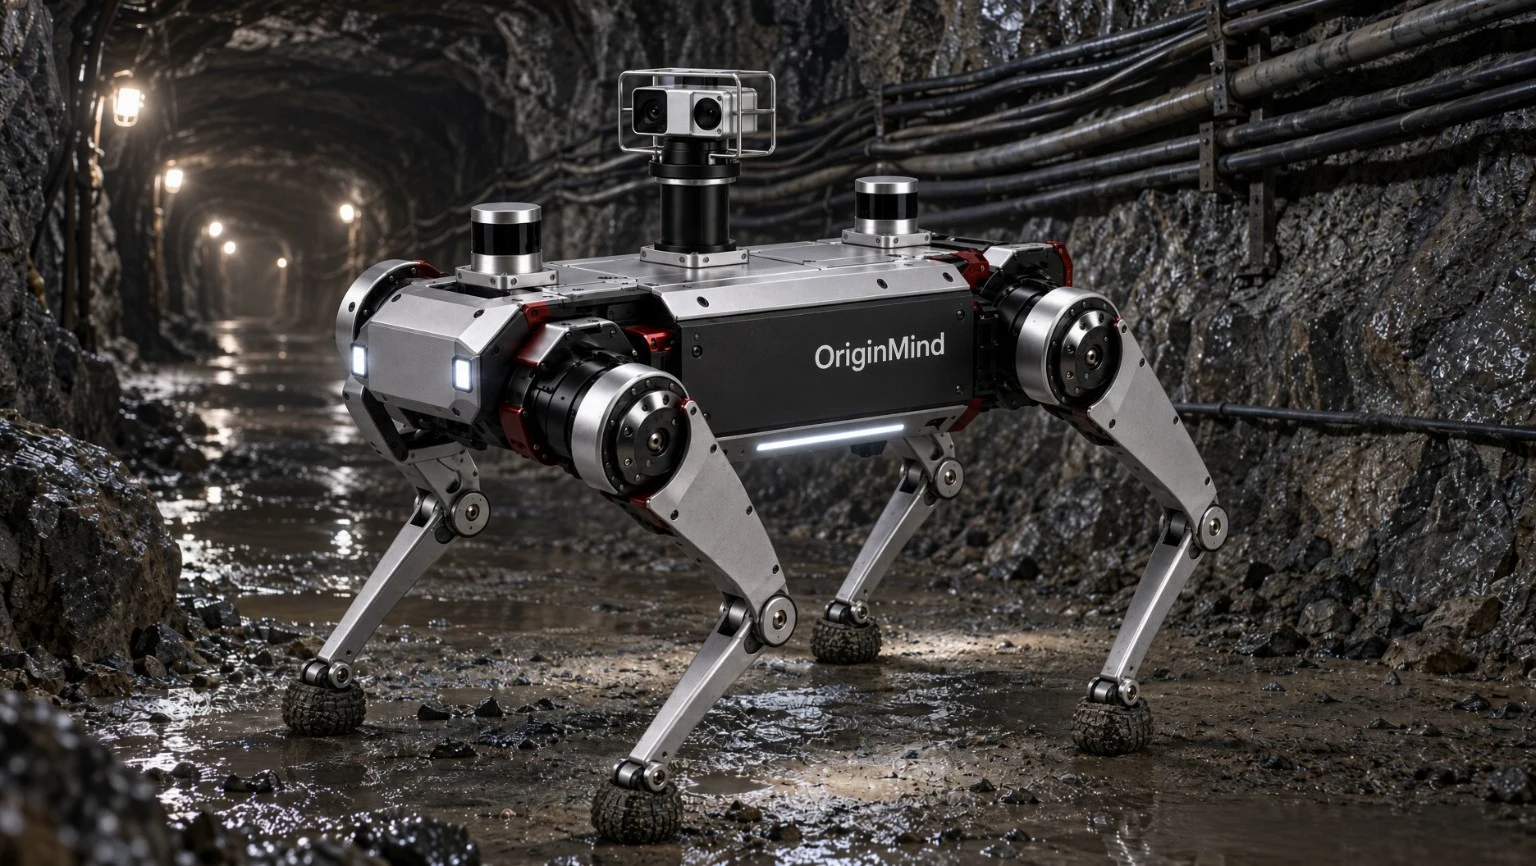
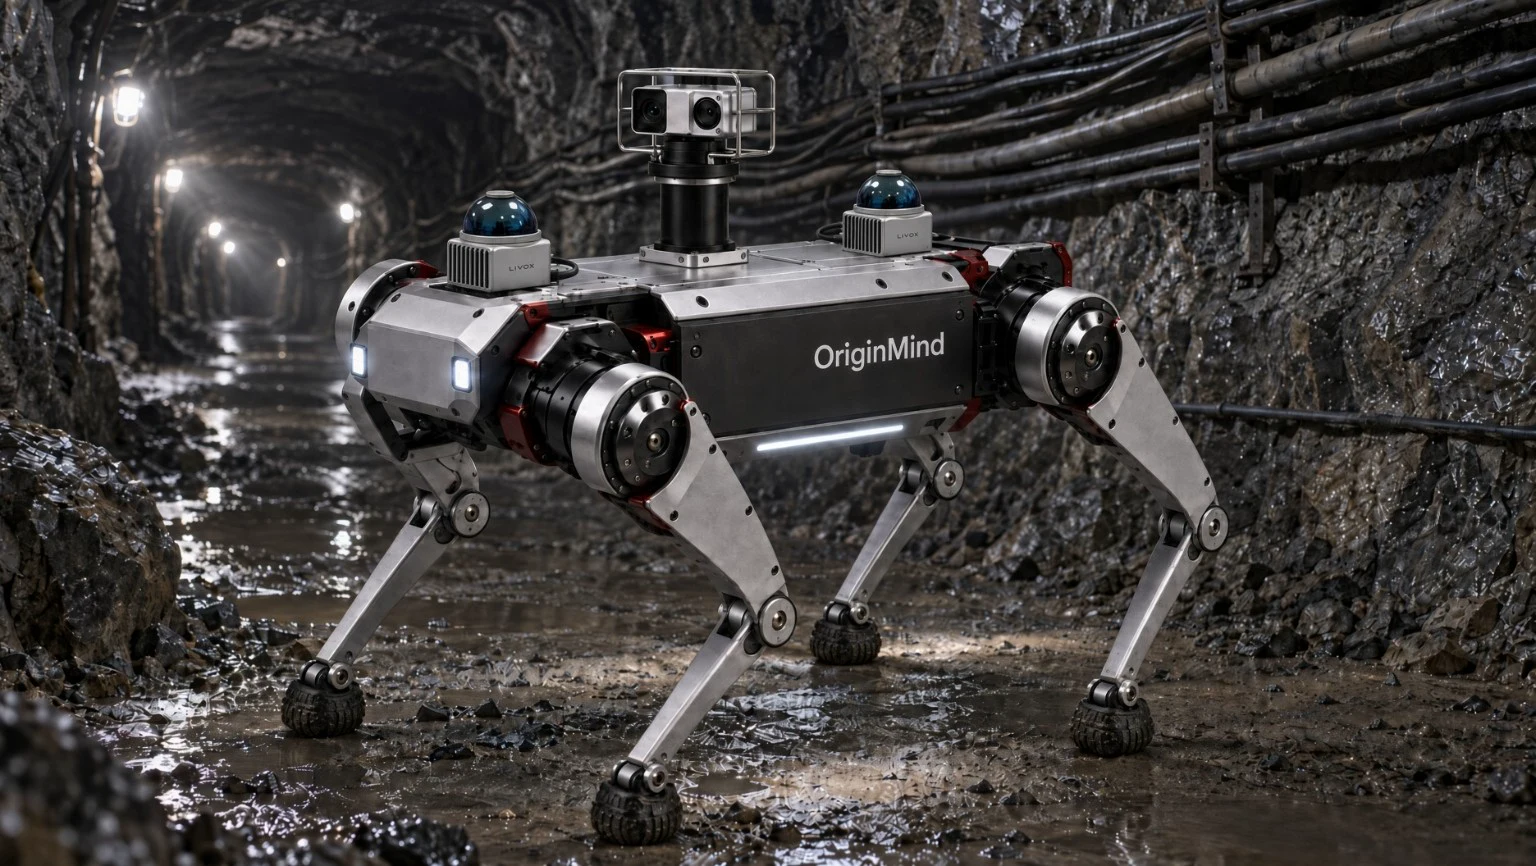
Refresh the metal mine scene with the revised dual-lidar rendering

diff --git a/design-studies/mujin-light-blue/README.md b/design-studies/mujin-light-blue/README.md
@@ -17,7 +17,7 @@
 
 - 用户确认矿井属于金属矿；所有品牌页面使用 metal mine。
 - 用户提供的矿井照片 `1000088956.jpg` 转换为 WebP，用于现场环境展示，不识别照片人物。
-- 用户另提供金属矿井四足场景效果图 `1000089006.jpg`，放在金属矿井详情页标题下方，标为“Application concept rendering · Engineering prototype in development”。保留完整画幅；原矿井实拍和履带实机视频仍在后续内容中展示。
+- 金属矿井四足场景主图采用用户最新提供的 `1000089013.jpg`（更新双雷达外观），替换之前的 `1000089006.jpg`。位置在金属矿井详情页标题下方，标为“Application concept rendering · Engineering prototype in development”。保留完整画幅；原矿井实拍和履带实机视频仍在后续内容中展示。
 - 用户最终选定五张实验室机器人效果图，均转换为 WebP、保留完整画幅，统一标为“Laboratory robot rendering”。四足另外标注“Engineering prototype in development”。旧四足图和系统集成 AI 示意图不再用于页面展示。
 
 | 用户图片 | 放置位置 | 说明 |
